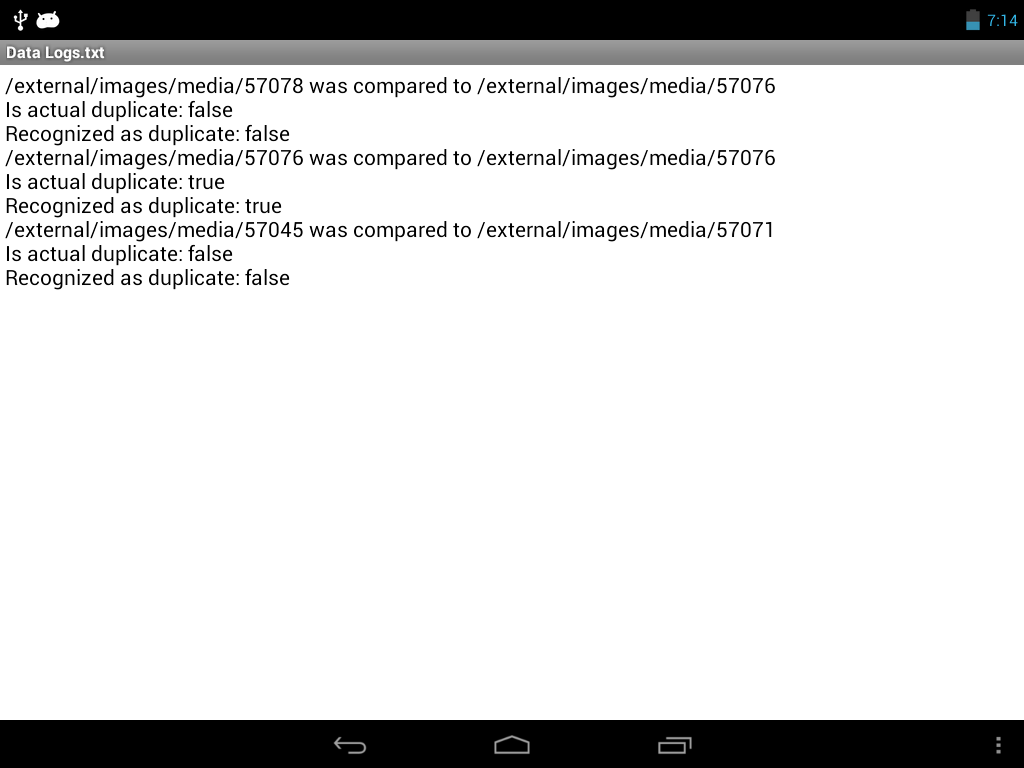
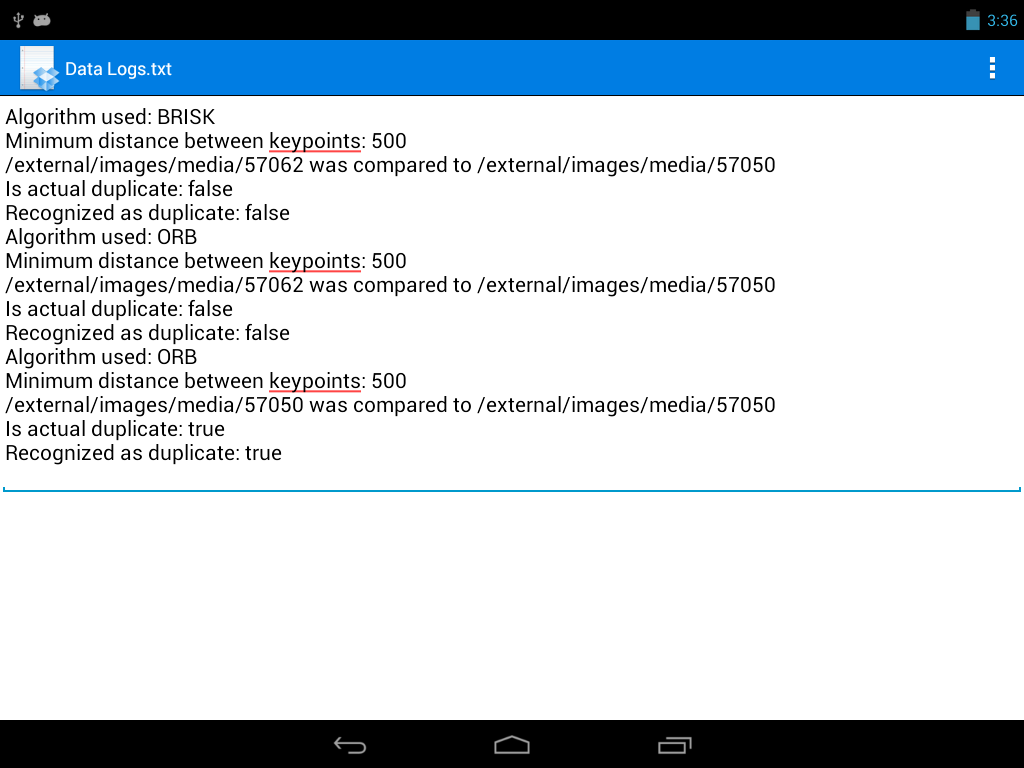
Fixed fatal exception for all algorithms but SIFT and SURF
Corrected the spelling of "duplicate"

Changed region(s): [[0.0, 0.0, 1.0, 0.625], [0.4688, 0.5, 0.75, 0.5625], [0.4688, 0.3438, 0.75, 0.4062]]

diff --git a/imageComparator/src/com/torcellite/imageComparator/MainActivity.java b/imageComparator/src/com/torcellite/imageComparator/MainActivity.java
@@ -50,6 +50,7 @@ public class MainActivity extends Activity {
 	private static final String TAG = "OCVSample::Activity";
 	Bitmap bmp, yourSelectedImage, bmpimg1, bmpimg2;
 	ImageView iv1, iv2;
+	TextView tv;
 	String path1, path2;
 	String text, selectedPath;
 	Button start;
@@ -92,6 +93,7 @@ public class MainActivity extends Activity {
 		iv1 = (ImageView) MainActivity.this.findViewById(R.id.img1);
 		iv2 = (ImageView) MainActivity.this.findViewById(R.id.img2);
 		start = (Button) MainActivity.this.findViewById(R.id.button1);
+		tv = (TextView) MainActivity.this.findViewById(R.id.tv);
 		run();
 	}
 
@@ -118,6 +120,20 @@ public class MainActivity extends Activity {
 	}
 
 	public void run() {
+		if (descriptor == DescriptorExtractor.BRIEF)
+			descriptorType = "BRIEF";
+		else if (descriptor == DescriptorExtractor.BRISK)
+			descriptorType = "BRISK";
+		else if (descriptor == DescriptorExtractor.FREAK)
+			descriptorType = "FREAK";
+		else if (descriptor == DescriptorExtractor.ORB)
+			descriptorType = "ORB";
+		else if (descriptor == DescriptorExtractor.SIFT)
+			descriptorType = "SIFT";
+		else if(descriptor == DescriptorExtractor.SURF)
+			descriptorType = "SURF";
+		System.out.println(descriptorType);
+		tv.setText("Select the two images to be compared.\n"+"DescriptorExtractor:"+descriptorType+" Minimum distance between keypoints:"+min_dist);
 		iv1.setOnClickListener(new View.OnClickListener() {
 
 			@Override
@@ -270,18 +286,6 @@ public class MainActivity extends Activity {
 					isDuplicate = false;
 				}
 				pd.dismiss();
-				if (descriptor == DescriptorExtractor.BRIEF)
-					descriptorType = "BRIEF";
-				if (descriptor == DescriptorExtractor.BRISK)
-					descriptorType = "BRISK";
-				if (descriptor == DescriptorExtractor.FREAK)
-					descriptorType = "FREAK";
-				if (descriptor == DescriptorExtractor.ORB)
-					descriptorType = "ORB";
-				if (descriptor == DescriptorExtractor.SIFT)
-					descriptorType = "SIFT";
-				else
-					descriptorType = "SURF";
 				final AlertDialog.Builder alertDialog = new AlertDialog.Builder(
 						MainActivity.this);
 				alertDialog.setTitle("Result");
@@ -312,14 +316,14 @@ public class MainActivity extends Activity {
 								try {
 									fw = new FileWriter(logs, true);
 									bw = new BufferedWriter(fw);
-									bw.write("Algorithm used:"
-											+ descriptor
+									bw.write("Algorithm used: "
+											+ descriptorType
 											+ "\nMinimum distance between keypoints: "
 											+ min_dist + "\n" + path1
 											+ " was compared to " + path2
 											+ "\n" + "Is actual duplicate: "
 											+ shouldBeDuplicate.isChecked()
-											+ "\nRecognized as duplciate: "
+											+ "\nRecognized as duplicate: "
 											+ isDuplicate + "\n");
 									bw.close();
 									Toast.makeText(
@@ -347,15 +351,15 @@ public class MainActivity extends Activity {
 														+ "/imageComparator/Data Logs.txt");
 										fw = new FileWriter(logs, true);
 										bw = new BufferedWriter(fw);
-										bw.write("Algorithm used:"
-												+ descriptor
+										bw.write("Algorithm used: "
+												+ descriptorType
 												+ "\nMinimum distance between keypoints: "
 												+ min_dist + "\n" + path1
 												+ " was compared to " + path2
 												+ "\n"
 												+ "Is actual duplicate: "
 												+ shouldBeDuplicate.isChecked()
-												+ "\nRecognized as duplciate: "
+												+ "\nRecognized as duplicate: "
 												+ isDuplicate + "\n");
 										bw.close();
 										Toast.makeText(
@@ -392,7 +396,7 @@ public class MainActivity extends Activity {
 				Utils.bitmapToMat(bmpimg2, img2);
 				Imgproc.cvtColor(img1, img1, Imgproc.COLOR_BGR2RGB);
 				Imgproc.cvtColor(img2, img2, Imgproc.COLOR_BGR2RGB);
-				detector = FeatureDetector.create(FeatureDetector.FAST);
+				detector = FeatureDetector.create(FeatureDetector.DYNAMIC_FAST);
 				DescExtractor = DescriptorExtractor.create(descriptor);
 				matcher = DescriptorMatcher
 						.create(DescriptorMatcher.BRUTEFORCE_HAMMING);

diff --git a/imageComparator/src/com/torcellite/imageComparator/Settings.java b/imageComparator/src/com/torcellite/imageComparator/Settings.java
@@ -37,18 +37,18 @@ public class Settings extends Activity {
 			@Override
 			public void onClick(View v) {
 				// TODO Auto-generated method stub
-				int descriptor, min_dist = 500;
+				int descriptor = 0, min_dist = 500;
 				if (brief.isChecked())
 					descriptor = DescriptorExtractor.BRIEF;
 				else if (brisk.isChecked())
 					descriptor = DescriptorExtractor.BRISK;
-				if (freak.isChecked())
+				else if (freak.isChecked())
 					descriptor = DescriptorExtractor.FREAK;
-				if (orb.isChecked())
+				else if (orb.isChecked())
 					descriptor = DescriptorExtractor.ORB;
-				if (sift.isChecked())
+				else if (sift.isChecked())
 					descriptor = DescriptorExtractor.SIFT;
-				else
+				else if(surf.isChecked())
 					descriptor = DescriptorExtractor.SURF;
 				try {
 					min_dist = Integer.parseInt(num.getText().toString());
@@ -97,18 +97,18 @@ public class Settings extends Activity {
 			@Override
 			public void onClick(View v) {
 				// TODO Auto-generated method stub
-				int descriptor, min_dist = 500;
+				int descriptor = 0, min_dist = 500;
 				if (brief.isChecked())
 					descriptor = DescriptorExtractor.BRIEF;
 				else if (brisk.isChecked())
 					descriptor = DescriptorExtractor.BRISK;
-				if (freak.isChecked())
+				else if (freak.isChecked())
 					descriptor = DescriptorExtractor.FREAK;
-				if (orb.isChecked())
+				else if (orb.isChecked())
 					descriptor = DescriptorExtractor.ORB;
-				if (sift.isChecked())
+				else if (sift.isChecked())
 					descriptor = DescriptorExtractor.SIFT;
-				else
+				else if (surf.isChecked())
 					descriptor = DescriptorExtractor.SURF;
 				try {
 					min_dist = Integer.parseInt(num.getText().toString());

diff --git a/README.md b/README.md
@@ -10,9 +10,14 @@ It is used in my application [WhatsAppDuplicateMediaRemover] (http://play.google
 
 # To be added/fixed
 
- [fix]Fatal Exception caused by onNewIntent in MainActivity has to be resolved
+ [FIX]Fatal signal 11 (SIGSEGV) at 0x00000000 (code=1), thread 654 (AsyncTask #1)
  
- [add]Graphing log files on a server
+      E/Trace(657): error opening trace file: No such file or directory (2)
+	  
+	  Caused due to SURF and SIFT DescriptorExtractors
+
+ 
+ [ADD]Graphing log files on a server
 
 # Screenshots
 
